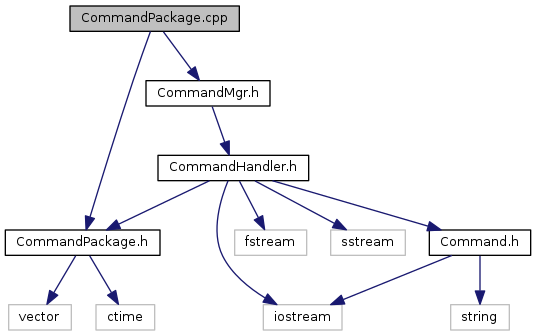
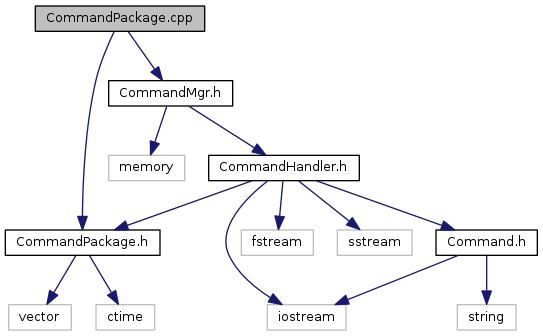
Deploy TiBxq/otus_cpp_h7 to github.com/TiBxq/otus_cpp_h7.git:gh-pages

diff --git a/_command_mgr_8h_source.html b/_command_mgr_8h_source.html
@@ -85,22 +85,21 @@ var searchBox = new SearchBox("searchBox", "search",false,'Search');
 <div class="title">CommandMgr.h</div>  </div>
 </div><!--header-->
 <div class="contents">
-<a href="_command_mgr_8h.html">Go to the documentation of this file.</a><div class="fragment"><div class="line"><a name="l00001"></a><span class="lineno">    1</span>&#160;<span class="preprocessor">#pragma once</span></div><div class="line"><a name="l00002"></a><span class="lineno">    2</span>&#160;</div><div class="line"><a name="l00003"></a><span class="lineno">    3</span>&#160;<span class="preprocessor">#include &quot;<a class="code" href="_command_handler_8h.html">CommandHandler.h</a>&quot;</span></div><div class="line"><a name="l00004"></a><span class="lineno">    4</span>&#160;</div><div class="line"><a name="l00005"></a><span class="lineno"><a class="line" href="class_command_mgr.html">    5</a></span>&#160;<span class="keyword">class </span><a class="code" href="class_command_mgr.html">CommandMgr</a></div><div class="line"><a name="l00006"></a><span class="lineno">    6</span>&#160;{</div><div class="line"><a name="l00007"></a><span class="lineno">    7</span>&#160;<span class="keyword">public</span>:</div><div class="line"><a name="l00008"></a><span class="lineno"><a class="line" href="class_command_mgr.html#a0d3968316177972d096d752e8607b68b">    8</a></span>&#160;    <a class="code" href="class_command_mgr.html#a0d3968316177972d096d752e8607b68b">CommandMgr</a>(<span class="keywordtype">int</span> n) : m_staticPackageSize(n), m_pkg(nullptr)</div><div class="line"><a name="l00009"></a><span class="lineno">    9</span>&#160;    {}</div><div class="line"><a name="l00010"></a><span class="lineno">   10</span>&#160;</div><div class="line"><a name="l00011"></a><span class="lineno"><a class="line" href="class_command_mgr.html#afa61ad0a2dd4adf633434ed088412cec">   11</a></span>&#160;    <span class="keywordtype">void</span> <a class="code" href="class_command_mgr.html#afa61ad0a2dd4adf633434ed088412cec">Add</a>(<a class="code" href="class_command_base.html">CommandBase</a>* cmd)</div><div class="line"><a name="l00012"></a><span class="lineno">   12</span>&#160;    {</div><div class="line"><a name="l00013"></a><span class="lineno">   13</span>&#160;        <span class="keywordflow">if</span> (!m_pkg)</div><div class="line"><a name="l00014"></a><span class="lineno">   14</span>&#160;        {</div><div class="line"><a name="l00015"></a><span class="lineno">   15</span>&#160;            m_pkg = <span class="keyword">new</span> <a class="code" href="class_static_command_package.html">StaticCommandPackage</a>(<span class="keyword">this</span>, m_staticPackageSize);</div><div class="line"><a name="l00016"></a><span class="lineno">   16</span>&#160;        }</div><div class="line"><a name="l00017"></a><span class="lineno">   17</span>&#160;        m_pkg-&gt;<a class="code" href="class_command_package.html#ad58f755e0343cdbaf34a72473a131f0f">Add</a>(cmd);</div><div class="line"><a name="l00018"></a><span class="lineno">   18</span>&#160;    }</div><div class="line"><a name="l00019"></a><span class="lineno">   19</span>&#160;</div><div class="line"><a name="l00020"></a><span class="lineno"><a class="line" href="class_command_mgr.html#acfed27d80d3f9650343cc9b7db2020c9">   20</a></span>&#160;    <span class="keywordtype">void</span> <a class="code" href="class_command_mgr.html#acfed27d80d3f9650343cc9b7db2020c9">OpenBlock</a>()</div><div class="line"><a name="l00021"></a><span class="lineno">   21</span>&#160;    {</div><div class="line"><a name="l00022"></a><span class="lineno">   22</span>&#160;        <span class="keywordflow">if</span>(m_pkg)</div><div class="line"><a name="l00023"></a><span class="lineno">   23</span>&#160;        {</div><div class="line"><a name="l00024"></a><span class="lineno">   24</span>&#160;            <span class="keywordflow">if</span> (m_pkg-&gt;<a class="code" href="class_command_package.html#a93fc18bbc9aa1c30516772ca13039a47">GetType</a>() == <a class="code" href="class_command_package.html#acf0736b6fc6ddd41a4d281941f53b4afa84a8921b25f505d0d2077aeb5db4bc16">CommandPackage::Type::Static</a>)</div><div class="line"><a name="l00025"></a><span class="lineno">   25</span>&#160;            {</div><div class="line"><a name="l00026"></a><span class="lineno">   26</span>&#160;                <a class="code" href="class_command_mgr.html#ade2efd944c6a552cbf28fb2979d6a89a">OnCompleted</a>();</div><div class="line"><a name="l00027"></a><span class="lineno">   27</span>&#160;            }</div><div class="line"><a name="l00028"></a><span class="lineno">   28</span>&#160;            <span class="keywordflow">else</span> <span class="keywordflow">if</span> (m_pkg-&gt;<a class="code" href="class_command_package.html#a93fc18bbc9aa1c30516772ca13039a47">GetType</a>() == <a class="code" href="class_command_package.html#acf0736b6fc6ddd41a4d281941f53b4afa971fd8cc345d8bd9f92e9f7d88fdf20c">CommandPackage::Type::Dynamic</a>)</div><div class="line"><a name="l00029"></a><span class="lineno">   29</span>&#160;            {</div><div class="line"><a name="l00030"></a><span class="lineno">   30</span>&#160;                <span class="keyword">static_cast&lt;</span><a class="code" href="class_dynamic_command_package.html">DynamicCommandPackage</a>*<span class="keyword">&gt;</span>(m_pkg)-&gt;IncCounter();</div><div class="line"><a name="l00031"></a><span class="lineno">   31</span>&#160;            }</div><div class="line"><a name="l00032"></a><span class="lineno">   32</span>&#160;        }</div><div class="line"><a name="l00033"></a><span class="lineno">   33</span>&#160;</div><div class="line"><a name="l00034"></a><span class="lineno">   34</span>&#160;        <span class="keywordflow">if</span>(!m_pkg)</div><div class="line"><a name="l00035"></a><span class="lineno">   35</span>&#160;        {</div><div class="line"><a name="l00036"></a><span class="lineno">   36</span>&#160;            m_pkg = <span class="keyword">new</span> <a class="code" href="class_dynamic_command_package.html">DynamicCommandPackage</a>(<span class="keyword">this</span>);</div><div class="line"><a name="l00037"></a><span class="lineno">   37</span>&#160;        }</div><div class="line"><a name="l00038"></a><span class="lineno">   38</span>&#160;    }</div><div class="line"><a name="l00039"></a><span class="lineno">   39</span>&#160;</div><div class="line"><a name="l00040"></a><span class="lineno"><a class="line" href="class_command_mgr.html#a4dc8e0869302d39b38802d40177ffdea">   40</a></span>&#160;    <span class="keywordtype">void</span> <a class="code" href="class_command_mgr.html#a4dc8e0869302d39b38802d40177ffdea">CloseBlock</a>()</div><div class="line"><a name="l00041"></a><span class="lineno">   41</span>&#160;    {</div><div class="line"><a name="l00042"></a><span class="lineno">   42</span>&#160;        <span class="keywordflow">if</span> (m_pkg)</div><div class="line"><a name="l00043"></a><span class="lineno">   43</span>&#160;        {</div><div class="line"><a name="l00044"></a><span class="lineno">   44</span>&#160;            <span class="keywordflow">if</span> (m_pkg-&gt;<a class="code" href="class_command_package.html#a93fc18bbc9aa1c30516772ca13039a47">GetType</a>() == <a class="code" href="class_command_package.html#acf0736b6fc6ddd41a4d281941f53b4afa971fd8cc345d8bd9f92e9f7d88fdf20c">CommandPackage::Type::Dynamic</a>)</div><div class="line"><a name="l00045"></a><span class="lineno">   45</span>&#160;            {</div><div class="line"><a name="l00046"></a><span class="lineno">   46</span>&#160;                <span class="keyword">static_cast&lt;</span><a class="code" href="class_dynamic_command_package.html">DynamicCommandPackage</a>*<span class="keyword">&gt;</span>(m_pkg)-&gt;DecCounter();</div><div class="line"><a name="l00047"></a><span class="lineno">   47</span>&#160;            }</div><div class="line"><a name="l00048"></a><span class="lineno">   48</span>&#160;        }</div><div class="line"><a name="l00049"></a><span class="lineno">   49</span>&#160;    }</div><div class="line"><a name="l00050"></a><span class="lineno">   50</span>&#160;</div><div class="line"><a name="l00051"></a><span class="lineno"><a class="line" href="class_command_mgr.html#ade2efd944c6a552cbf28fb2979d6a89a">   51</a></span>&#160;    <span class="keywordtype">void</span> <a class="code" href="class_command_mgr.html#ade2efd944c6a552cbf28fb2979d6a89a">OnCompleted</a>()</div><div class="line"><a name="l00052"></a><span class="lineno">   52</span>&#160;    { </div><div class="line"><a name="l00053"></a><span class="lineno">   53</span>&#160;        <span class="keywordflow">if</span> (m_pkg)</div><div class="line"><a name="l00054"></a><span class="lineno">   54</span>&#160;        {</div><div class="line"><a name="l00055"></a><span class="lineno">   55</span>&#160;            <span class="keywordflow">for</span> (<a class="code" href="class_command_handler.html">CommandHandler</a>* handler : m_handlers)</div><div class="line"><a name="l00056"></a><span class="lineno">   56</span>&#160;            {</div><div class="line"><a name="l00057"></a><span class="lineno">   57</span>&#160;                handler-&gt;Handle(m_pkg);</div><div class="line"><a name="l00058"></a><span class="lineno">   58</span>&#160;            }</div><div class="line"><a name="l00059"></a><span class="lineno">   59</span>&#160;</div><div class="line"><a name="l00060"></a><span class="lineno">   60</span>&#160;            <span class="keyword">delete</span> m_pkg;</div><div class="line"><a name="l00061"></a><span class="lineno">   61</span>&#160;            m_pkg = <span class="keyword">nullptr</span>;</div><div class="line"><a name="l00062"></a><span class="lineno">   62</span>&#160;        }</div><div class="line"><a name="l00063"></a><span class="lineno">   63</span>&#160;    }</div><div class="line"><a name="l00064"></a><span class="lineno">   64</span>&#160;</div><div class="line"><a name="l00065"></a><span class="lineno"><a class="line" href="class_command_mgr.html#a6982154b188980737919c3fea0f14654">   65</a></span>&#160;    <span class="keywordtype">void</span> <a class="code" href="class_command_mgr.html#a6982154b188980737919c3fea0f14654">AddHandler</a>(<a class="code" href="class_command_handler.html">CommandHandler</a>* handler)</div><div class="line"><a name="l00066"></a><span class="lineno">   66</span>&#160;    {</div><div class="line"><a name="l00067"></a><span class="lineno">   67</span>&#160;        m_handlers.emplace_back(handler);</div><div class="line"><a name="l00068"></a><span class="lineno">   68</span>&#160;    }</div><div class="line"><a name="l00069"></a><span class="lineno">   69</span>&#160;</div><div class="line"><a name="l00070"></a><span class="lineno">   70</span>&#160;    <span class="comment">//dtor</span></div><div class="line"><a name="l00071"></a><span class="lineno">   71</span>&#160;</div><div class="line"><a name="l00072"></a><span class="lineno">   72</span>&#160;<span class="keyword">private</span>:</div><div class="line"><a name="l00073"></a><span class="lineno">   73</span>&#160;    std::vector&lt;CommandBase*&gt; m_cmdList;</div><div class="line"><a name="l00074"></a><span class="lineno">   74</span>&#160;    std::vector&lt;CommandHandler*&gt; m_handlers;</div><div class="line"><a name="l00075"></a><span class="lineno">   75</span>&#160;    <span class="keywordtype">int</span> m_staticPackageSize;</div><div class="line"><a name="l00076"></a><span class="lineno">   76</span>&#160;</div><div class="line"><a name="l00077"></a><span class="lineno">   77</span>&#160;    <a class="code" href="class_command_package.html">CommandPackage</a>* m_pkg;</div><div class="line"><a name="l00078"></a><span class="lineno">   78</span>&#160;};</div><div class="ttc" id="class_command_mgr_html_a6982154b188980737919c3fea0f14654"><div class="ttname"><a href="class_command_mgr.html#a6982154b188980737919c3fea0f14654">CommandMgr::AddHandler</a></div><div class="ttdeci">void AddHandler(CommandHandler *handler)</div><div class="ttdef"><b>Definition:</b> CommandMgr.h:65</div></div>
-<div class="ttc" id="class_dynamic_command_package_html"><div class="ttname"><a href="class_dynamic_command_package.html">DynamicCommandPackage</a></div><div class="ttdef"><b>Definition:</b> CommandPackage.h:54</div></div>
+<a href="_command_mgr_8h.html">Go to the documentation of this file.</a><div class="fragment"><div class="line"><a name="l00001"></a><span class="lineno">    1</span>&#160;<span class="preprocessor">#pragma once</span></div><div class="line"><a name="l00002"></a><span class="lineno">    2</span>&#160;</div><div class="line"><a name="l00003"></a><span class="lineno">    3</span>&#160;<span class="preprocessor">#include &lt;memory&gt;</span></div><div class="line"><a name="l00004"></a><span class="lineno">    4</span>&#160;</div><div class="line"><a name="l00005"></a><span class="lineno">    5</span>&#160;<span class="preprocessor">#include &quot;<a class="code" href="_command_handler_8h.html">CommandHandler.h</a>&quot;</span></div><div class="line"><a name="l00006"></a><span class="lineno">    6</span>&#160;</div><div class="line"><a name="l00007"></a><span class="lineno"><a class="line" href="class_command_mgr.html">    7</a></span>&#160;<span class="keyword">class </span><a class="code" href="class_command_mgr.html">CommandMgr</a></div><div class="line"><a name="l00008"></a><span class="lineno">    8</span>&#160;{</div><div class="line"><a name="l00009"></a><span class="lineno">    9</span>&#160;<span class="keyword">public</span>:</div><div class="line"><a name="l00010"></a><span class="lineno"><a class="line" href="class_command_mgr.html#a0d3968316177972d096d752e8607b68b">   10</a></span>&#160;    <a class="code" href="class_command_mgr.html#a0d3968316177972d096d752e8607b68b">CommandMgr</a>(<span class="keywordtype">int</span> n) : m_staticPackageSize(n), m_pkg(nullptr)</div><div class="line"><a name="l00011"></a><span class="lineno">   11</span>&#160;    {}</div><div class="line"><a name="l00012"></a><span class="lineno">   12</span>&#160;</div><div class="line"><a name="l00013"></a><span class="lineno"><a class="line" href="class_command_mgr.html#afa61ad0a2dd4adf633434ed088412cec">   13</a></span>&#160;    <span class="keywordtype">void</span> <a class="code" href="class_command_mgr.html#afa61ad0a2dd4adf633434ed088412cec">Add</a>(<a class="code" href="class_command_base.html">CommandBase</a>* cmd)</div><div class="line"><a name="l00014"></a><span class="lineno">   14</span>&#160;    {</div><div class="line"><a name="l00015"></a><span class="lineno">   15</span>&#160;        <span class="keywordflow">if</span> (!m_pkg)</div><div class="line"><a name="l00016"></a><span class="lineno">   16</span>&#160;        {</div><div class="line"><a name="l00017"></a><span class="lineno">   17</span>&#160;            m_pkg = <span class="keyword">new</span> <a class="code" href="class_static_command_package.html">StaticCommandPackage</a>(<span class="keyword">this</span>, m_staticPackageSize);</div><div class="line"><a name="l00018"></a><span class="lineno">   18</span>&#160;        }</div><div class="line"><a name="l00019"></a><span class="lineno">   19</span>&#160;        m_pkg-&gt;<a class="code" href="class_command_package.html#ad58f755e0343cdbaf34a72473a131f0f">Add</a>(cmd);</div><div class="line"><a name="l00020"></a><span class="lineno">   20</span>&#160;    }</div><div class="line"><a name="l00021"></a><span class="lineno">   21</span>&#160;</div><div class="line"><a name="l00022"></a><span class="lineno"><a class="line" href="class_command_mgr.html#acfed27d80d3f9650343cc9b7db2020c9">   22</a></span>&#160;    <span class="keywordtype">void</span> <a class="code" href="class_command_mgr.html#acfed27d80d3f9650343cc9b7db2020c9">OpenBlock</a>()</div><div class="line"><a name="l00023"></a><span class="lineno">   23</span>&#160;    {</div><div class="line"><a name="l00024"></a><span class="lineno">   24</span>&#160;        <span class="keywordflow">if</span>(m_pkg)</div><div class="line"><a name="l00025"></a><span class="lineno">   25</span>&#160;        {</div><div class="line"><a name="l00026"></a><span class="lineno">   26</span>&#160;            <span class="keywordflow">if</span> (m_pkg-&gt;<a class="code" href="class_command_package.html#a93fc18bbc9aa1c30516772ca13039a47">GetType</a>() == <a class="code" href="class_command_package.html#acf0736b6fc6ddd41a4d281941f53b4afa84a8921b25f505d0d2077aeb5db4bc16">CommandPackage::Type::Static</a>)</div><div class="line"><a name="l00027"></a><span class="lineno">   27</span>&#160;            {</div><div class="line"><a name="l00028"></a><span class="lineno">   28</span>&#160;                <a class="code" href="class_command_mgr.html#ade2efd944c6a552cbf28fb2979d6a89a">OnCompleted</a>();</div><div class="line"><a name="l00029"></a><span class="lineno">   29</span>&#160;            }</div><div class="line"><a name="l00030"></a><span class="lineno">   30</span>&#160;            <span class="keywordflow">else</span> <span class="keywordflow">if</span> (m_pkg-&gt;<a class="code" href="class_command_package.html#a93fc18bbc9aa1c30516772ca13039a47">GetType</a>() == <a class="code" href="class_command_package.html#acf0736b6fc6ddd41a4d281941f53b4afa971fd8cc345d8bd9f92e9f7d88fdf20c">CommandPackage::Type::Dynamic</a>)</div><div class="line"><a name="l00031"></a><span class="lineno">   31</span>&#160;            {</div><div class="line"><a name="l00032"></a><span class="lineno">   32</span>&#160;                <span class="keyword">static_cast&lt;</span><a class="code" href="class_dynamic_command_package.html">DynamicCommandPackage</a>*<span class="keyword">&gt;</span>(m_pkg)-&gt;IncCounter();</div><div class="line"><a name="l00033"></a><span class="lineno">   33</span>&#160;            }</div><div class="line"><a name="l00034"></a><span class="lineno">   34</span>&#160;        }</div><div class="line"><a name="l00035"></a><span class="lineno">   35</span>&#160;</div><div class="line"><a name="l00036"></a><span class="lineno">   36</span>&#160;        <span class="keywordflow">if</span>(!m_pkg)</div><div class="line"><a name="l00037"></a><span class="lineno">   37</span>&#160;        {</div><div class="line"><a name="l00038"></a><span class="lineno">   38</span>&#160;            m_pkg = <span class="keyword">new</span> <a class="code" href="class_dynamic_command_package.html">DynamicCommandPackage</a>(<span class="keyword">this</span>);</div><div class="line"><a name="l00039"></a><span class="lineno">   39</span>&#160;        }</div><div class="line"><a name="l00040"></a><span class="lineno">   40</span>&#160;    }</div><div class="line"><a name="l00041"></a><span class="lineno">   41</span>&#160;</div><div class="line"><a name="l00042"></a><span class="lineno"><a class="line" href="class_command_mgr.html#a4dc8e0869302d39b38802d40177ffdea">   42</a></span>&#160;    <span class="keywordtype">void</span> <a class="code" href="class_command_mgr.html#a4dc8e0869302d39b38802d40177ffdea">CloseBlock</a>()</div><div class="line"><a name="l00043"></a><span class="lineno">   43</span>&#160;    {</div><div class="line"><a name="l00044"></a><span class="lineno">   44</span>&#160;        <span class="keywordflow">if</span> (m_pkg)</div><div class="line"><a name="l00045"></a><span class="lineno">   45</span>&#160;        {</div><div class="line"><a name="l00046"></a><span class="lineno">   46</span>&#160;            <span class="keywordflow">if</span> (m_pkg-&gt;<a class="code" href="class_command_package.html#a93fc18bbc9aa1c30516772ca13039a47">GetType</a>() == <a class="code" href="class_command_package.html#acf0736b6fc6ddd41a4d281941f53b4afa971fd8cc345d8bd9f92e9f7d88fdf20c">CommandPackage::Type::Dynamic</a>)</div><div class="line"><a name="l00047"></a><span class="lineno">   47</span>&#160;            {</div><div class="line"><a name="l00048"></a><span class="lineno">   48</span>&#160;                <span class="keyword">static_cast&lt;</span><a class="code" href="class_dynamic_command_package.html">DynamicCommandPackage</a>*<span class="keyword">&gt;</span>(m_pkg)-&gt;DecCounter();</div><div class="line"><a name="l00049"></a><span class="lineno">   49</span>&#160;            }</div><div class="line"><a name="l00050"></a><span class="lineno">   50</span>&#160;        }</div><div class="line"><a name="l00051"></a><span class="lineno">   51</span>&#160;    }</div><div class="line"><a name="l00052"></a><span class="lineno">   52</span>&#160;</div><div class="line"><a name="l00053"></a><span class="lineno"><a class="line" href="class_command_mgr.html#ade2efd944c6a552cbf28fb2979d6a89a">   53</a></span>&#160;    <span class="keywordtype">void</span> <a class="code" href="class_command_mgr.html#ade2efd944c6a552cbf28fb2979d6a89a">OnCompleted</a>()</div><div class="line"><a name="l00054"></a><span class="lineno">   54</span>&#160;    { </div><div class="line"><a name="l00055"></a><span class="lineno">   55</span>&#160;        <span class="keywordflow">if</span> (m_pkg)</div><div class="line"><a name="l00056"></a><span class="lineno">   56</span>&#160;        {</div><div class="line"><a name="l00057"></a><span class="lineno">   57</span>&#160;            <span class="keywordflow">for</span> (<span class="keyword">auto</span>&amp; handler : m_handlers)</div><div class="line"><a name="l00058"></a><span class="lineno">   58</span>&#160;            {</div><div class="line"><a name="l00059"></a><span class="lineno">   59</span>&#160;                handler-&gt;Handle(m_pkg);</div><div class="line"><a name="l00060"></a><span class="lineno">   60</span>&#160;            }</div><div class="line"><a name="l00061"></a><span class="lineno">   61</span>&#160;</div><div class="line"><a name="l00062"></a><span class="lineno">   62</span>&#160;            <span class="keyword">delete</span> m_pkg;</div><div class="line"><a name="l00063"></a><span class="lineno">   63</span>&#160;            m_pkg = <span class="keyword">nullptr</span>;</div><div class="line"><a name="l00064"></a><span class="lineno">   64</span>&#160;        }</div><div class="line"><a name="l00065"></a><span class="lineno">   65</span>&#160;    }</div><div class="line"><a name="l00066"></a><span class="lineno">   66</span>&#160;</div><div class="line"><a name="l00067"></a><span class="lineno"><a class="line" href="class_command_mgr.html#a098c38f960b3e9fbbb26017c10444de7">   67</a></span>&#160;    <span class="keywordtype">void</span> <a class="code" href="class_command_mgr.html#a098c38f960b3e9fbbb26017c10444de7">AddHandler</a>(std::unique_ptr&lt;CommandHandler&gt;&amp;&amp; handler)</div><div class="line"><a name="l00068"></a><span class="lineno">   68</span>&#160;    {</div><div class="line"><a name="l00069"></a><span class="lineno">   69</span>&#160;        m_handlers.emplace_back(std::move(handler));</div><div class="line"><a name="l00070"></a><span class="lineno">   70</span>&#160;    }</div><div class="line"><a name="l00071"></a><span class="lineno">   71</span>&#160;</div><div class="line"><a name="l00072"></a><span class="lineno">   72</span>&#160;    <span class="comment">//dtor</span></div><div class="line"><a name="l00073"></a><span class="lineno">   73</span>&#160;</div><div class="line"><a name="l00074"></a><span class="lineno">   74</span>&#160;<span class="keyword">private</span>:</div><div class="line"><a name="l00075"></a><span class="lineno">   75</span>&#160;    std::vector&lt;CommandBase*&gt; m_cmdList;</div><div class="line"><a name="l00076"></a><span class="lineno">   76</span>&#160;    std::vector&lt;std::unique_ptr&lt;CommandHandler&gt;&gt; m_handlers;</div><div class="line"><a name="l00077"></a><span class="lineno">   77</span>&#160;    <span class="keywordtype">int</span> m_staticPackageSize;</div><div class="line"><a name="l00078"></a><span class="lineno">   78</span>&#160;</div><div class="line"><a name="l00079"></a><span class="lineno">   79</span>&#160;    <a class="code" href="class_command_package.html">CommandPackage</a>* m_pkg;</div><div class="line"><a name="l00080"></a><span class="lineno">   80</span>&#160;};</div><div class="ttc" id="class_dynamic_command_package_html"><div class="ttname"><a href="class_dynamic_command_package.html">DynamicCommandPackage</a></div><div class="ttdef"><b>Definition:</b> CommandPackage.h:54</div></div>
 <div class="ttc" id="class_command_package_html"><div class="ttname"><a href="class_command_package.html">CommandPackage</a></div><div class="ttdef"><b>Definition:</b> CommandPackage.h:9</div></div>
-<div class="ttc" id="class_command_mgr_html_afa61ad0a2dd4adf633434ed088412cec"><div class="ttname"><a href="class_command_mgr.html#afa61ad0a2dd4adf633434ed088412cec">CommandMgr::Add</a></div><div class="ttdeci">void Add(CommandBase *cmd)</div><div class="ttdef"><b>Definition:</b> CommandMgr.h:11</div></div>
-<div class="ttc" id="class_command_mgr_html_a4dc8e0869302d39b38802d40177ffdea"><div class="ttname"><a href="class_command_mgr.html#a4dc8e0869302d39b38802d40177ffdea">CommandMgr::CloseBlock</a></div><div class="ttdeci">void CloseBlock()</div><div class="ttdef"><b>Definition:</b> CommandMgr.h:40</div></div>
-<div class="ttc" id="class_command_mgr_html_a0d3968316177972d096d752e8607b68b"><div class="ttname"><a href="class_command_mgr.html#a0d3968316177972d096d752e8607b68b">CommandMgr::CommandMgr</a></div><div class="ttdeci">CommandMgr(int n)</div><div class="ttdef"><b>Definition:</b> CommandMgr.h:8</div></div>
+<div class="ttc" id="class_command_mgr_html_afa61ad0a2dd4adf633434ed088412cec"><div class="ttname"><a href="class_command_mgr.html#afa61ad0a2dd4adf633434ed088412cec">CommandMgr::Add</a></div><div class="ttdeci">void Add(CommandBase *cmd)</div><div class="ttdef"><b>Definition:</b> CommandMgr.h:13</div></div>
+<div class="ttc" id="class_command_mgr_html_a4dc8e0869302d39b38802d40177ffdea"><div class="ttname"><a href="class_command_mgr.html#a4dc8e0869302d39b38802d40177ffdea">CommandMgr::CloseBlock</a></div><div class="ttdeci">void CloseBlock()</div><div class="ttdef"><b>Definition:</b> CommandMgr.h:42</div></div>
+<div class="ttc" id="class_command_mgr_html_a0d3968316177972d096d752e8607b68b"><div class="ttname"><a href="class_command_mgr.html#a0d3968316177972d096d752e8607b68b">CommandMgr::CommandMgr</a></div><div class="ttdeci">CommandMgr(int n)</div><div class="ttdef"><b>Definition:</b> CommandMgr.h:10</div></div>
 <div class="ttc" id="class_command_package_html_acf0736b6fc6ddd41a4d281941f53b4afa971fd8cc345d8bd9f92e9f7d88fdf20c"><div class="ttname"><a href="class_command_package.html#acf0736b6fc6ddd41a4d281941f53b4afa971fd8cc345d8bd9f92e9f7d88fdf20c">CommandPackage::Type::Dynamic</a></div></div>
+<div class="ttc" id="class_command_mgr_html_a098c38f960b3e9fbbb26017c10444de7"><div class="ttname"><a href="class_command_mgr.html#a098c38f960b3e9fbbb26017c10444de7">CommandMgr::AddHandler</a></div><div class="ttdeci">void AddHandler(std::unique_ptr&lt; CommandHandler &gt; &amp;&amp;handler)</div><div class="ttdef"><b>Definition:</b> CommandMgr.h:67</div></div>
 <div class="ttc" id="class_command_package_html_acf0736b6fc6ddd41a4d281941f53b4afa84a8921b25f505d0d2077aeb5db4bc16"><div class="ttname"><a href="class_command_package.html#acf0736b6fc6ddd41a4d281941f53b4afa84a8921b25f505d0d2077aeb5db4bc16">CommandPackage::Type::Static</a></div></div>
 <div class="ttc" id="class_command_package_html_ad58f755e0343cdbaf34a72473a131f0f"><div class="ttname"><a href="class_command_package.html#ad58f755e0343cdbaf34a72473a131f0f">CommandPackage::Add</a></div><div class="ttdeci">virtual void Add(CommandBase *cmd)</div><div class="ttdef"><b>Definition:</b> CommandPackage.h:17</div></div>
 <div class="ttc" id="class_command_base_html"><div class="ttname"><a href="class_command_base.html">CommandBase</a></div><div class="ttdef"><b>Definition:</b> Command.h:6</div></div>
-<div class="ttc" id="class_command_handler_html"><div class="ttname"><a href="class_command_handler.html">CommandHandler</a></div><div class="ttdef"><b>Definition:</b> CommandHandler.h:10</div></div>
-<div class="ttc" id="class_command_mgr_html"><div class="ttname"><a href="class_command_mgr.html">CommandMgr</a></div><div class="ttdef"><b>Definition:</b> CommandMgr.h:5</div></div>
+<div class="ttc" id="class_command_mgr_html"><div class="ttname"><a href="class_command_mgr.html">CommandMgr</a></div><div class="ttdef"><b>Definition:</b> CommandMgr.h:7</div></div>
 <div class="ttc" id="class_static_command_package_html"><div class="ttname"><a href="class_static_command_package.html">StaticCommandPackage</a></div><div class="ttdef"><b>Definition:</b> CommandPackage.h:40</div></div>
-<div class="ttc" id="class_command_mgr_html_acfed27d80d3f9650343cc9b7db2020c9"><div class="ttname"><a href="class_command_mgr.html#acfed27d80d3f9650343cc9b7db2020c9">CommandMgr::OpenBlock</a></div><div class="ttdeci">void OpenBlock()</div><div class="ttdef"><b>Definition:</b> CommandMgr.h:20</div></div>
+<div class="ttc" id="class_command_mgr_html_acfed27d80d3f9650343cc9b7db2020c9"><div class="ttname"><a href="class_command_mgr.html#acfed27d80d3f9650343cc9b7db2020c9">CommandMgr::OpenBlock</a></div><div class="ttdeci">void OpenBlock()</div><div class="ttdef"><b>Definition:</b> CommandMgr.h:22</div></div>
 <div class="ttc" id="_command_handler_8h_html"><div class="ttname"><a href="_command_handler_8h.html">CommandHandler.h</a></div></div>
-<div class="ttc" id="class_command_mgr_html_ade2efd944c6a552cbf28fb2979d6a89a"><div class="ttname"><a href="class_command_mgr.html#ade2efd944c6a552cbf28fb2979d6a89a">CommandMgr::OnCompleted</a></div><div class="ttdeci">void OnCompleted()</div><div class="ttdef"><b>Definition:</b> CommandMgr.h:51</div></div>
+<div class="ttc" id="class_command_mgr_html_ade2efd944c6a552cbf28fb2979d6a89a"><div class="ttname"><a href="class_command_mgr.html#ade2efd944c6a552cbf28fb2979d6a89a">CommandMgr::OnCompleted</a></div><div class="ttdeci">void OnCompleted()</div><div class="ttdef"><b>Definition:</b> CommandMgr.h:53</div></div>
 <div class="ttc" id="class_command_package_html_a93fc18bbc9aa1c30516772ca13039a47"><div class="ttname"><a href="class_command_package.html#a93fc18bbc9aa1c30516772ca13039a47">CommandPackage::GetType</a></div><div class="ttdeci">virtual Type GetType()=0</div></div>
 </div><!-- fragment --></div><!-- contents -->
 <!-- start footer part -->

diff --git a/class_command_mgr.html b/class_command_mgr.html
@@ -105,8 +105,8 @@ Public Member Functions</h2></td></tr>
 <tr class="separator:a4dc8e0869302d39b38802d40177ffdea"><td class="memSeparator" colspan="2">&#160;</td></tr>
 <tr class="memitem:ade2efd944c6a552cbf28fb2979d6a89a"><td class="memItemLeft" align="right" valign="top">void&#160;</td><td class="memItemRight" valign="bottom"><a class="el" href="class_command_mgr.html#ade2efd944c6a552cbf28fb2979d6a89a">OnCompleted</a> ()</td></tr>
 <tr class="separator:ade2efd944c6a552cbf28fb2979d6a89a"><td class="memSeparator" colspan="2">&#160;</td></tr>
-<tr class="memitem:a6982154b188980737919c3fea0f14654"><td class="memItemLeft" align="right" valign="top">void&#160;</td><td class="memItemRight" valign="bottom"><a class="el" href="class_command_mgr.html#a6982154b188980737919c3fea0f14654">AddHandler</a> (<a class="el" href="class_command_handler.html">CommandHandler</a> *handler)</td></tr>
-<tr class="separator:a6982154b188980737919c3fea0f14654"><td class="memSeparator" colspan="2">&#160;</td></tr>
+<tr class="memitem:a098c38f960b3e9fbbb26017c10444de7"><td class="memItemLeft" align="right" valign="top">void&#160;</td><td class="memItemRight" valign="bottom"><a class="el" href="class_command_mgr.html#a098c38f960b3e9fbbb26017c10444de7">AddHandler</a> (std::unique_ptr&lt; <a class="el" href="class_command_handler.html">CommandHandler</a> &gt; &amp;&amp;handler)</td></tr>
+<tr class="separator:a098c38f960b3e9fbbb26017c10444de7"><td class="memSeparator" colspan="2">&#160;</td></tr>
 </table>
 <h2 class="groupheader">Constructor &amp; Destructor Documentation</h2>
 <a class="anchor" id="a0d3968316177972d096d752e8607b68b"></a>
@@ -158,7 +158,7 @@ Public Member Functions</h2></td></tr>
 
 </div>
 </div>
-<a class="anchor" id="a6982154b188980737919c3fea0f14654"></a>
+<a class="anchor" id="a098c38f960b3e9fbbb26017c10444de7"></a>
 <div class="memitem">
 <div class="memproto">
 <table class="mlabels">
@@ -168,7 +168,7 @@ Public Member Functions</h2></td></tr>
         <tr>
           <td class="memname">void CommandMgr::AddHandler </td>
           <td>(</td>
-          <td class="paramtype"><a class="el" href="class_command_handler.html">CommandHandler</a> *&#160;</td>
+          <td class="paramtype">std::unique_ptr&lt; <a class="el" href="class_command_handler.html">CommandHandler</a> &gt; &amp;&amp;&#160;</td>
           <td class="paramname"><em>handler</em></td><td>)</td>
           <td></td>
         </tr>

diff --git a/_command_package_8h_source.html b/_command_package_8h_source.html
@@ -95,7 +95,7 @@ var searchBox = new SearchBox("searchBox", "search",false,'Search');
 <div class="ttc" id="class_command_package_html_ad58f755e0343cdbaf34a72473a131f0f"><div class="ttname"><a href="class_command_package.html#ad58f755e0343cdbaf34a72473a131f0f">CommandPackage::Add</a></div><div class="ttdeci">virtual void Add(CommandBase *cmd)</div><div class="ttdef"><b>Definition:</b> CommandPackage.h:17</div></div>
 <div class="ttc" id="class_command_package_html_a3432acc59038e7f41d9fcab09d3d6ac2"><div class="ttname"><a href="class_command_package.html#a3432acc59038e7f41d9fcab09d3d6ac2">CommandPackage::Execute</a></div><div class="ttdeci">virtual void Execute()</div><div class="ttdef"><b>Definition:</b> CommandPackage.h:26</div></div>
 <div class="ttc" id="class_command_base_html"><div class="ttname"><a href="class_command_base.html">CommandBase</a></div><div class="ttdef"><b>Definition:</b> Command.h:6</div></div>
-<div class="ttc" id="class_command_mgr_html"><div class="ttname"><a href="class_command_mgr.html">CommandMgr</a></div><div class="ttdef"><b>Definition:</b> CommandMgr.h:5</div></div>
+<div class="ttc" id="class_command_mgr_html"><div class="ttname"><a href="class_command_mgr.html">CommandMgr</a></div><div class="ttdef"><b>Definition:</b> CommandMgr.h:7</div></div>
 <div class="ttc" id="class_static_command_package_html_addf43efa85be145485067e165ca4e9a5"><div class="ttname"><a href="class_static_command_package.html#addf43efa85be145485067e165ca4e9a5">StaticCommandPackage::GetType</a></div><div class="ttdeci">Type GetType() override</div><div class="ttdef"><b>Definition:</b> CommandPackage.h:48</div></div>
 <div class="ttc" id="class_static_command_package_html"><div class="ttname"><a href="class_static_command_package.html">StaticCommandPackage</a></div><div class="ttdef"><b>Definition:</b> CommandPackage.h:40</div></div>
 <div class="ttc" id="class_command_package_html_a872ec95a2dfbbbd89b714c7f9b169b3b"><div class="ttname"><a href="class_command_package.html#a872ec95a2dfbbbd89b714c7f9b169b3b">CommandPackage::CommandPackage</a></div><div class="ttdeci">CommandPackage(CommandMgr *mgr)</div><div class="ttdef"><b>Definition:</b> CommandPackage.h:12</div></div>

diff --git a/class_command_mgr-members.html b/class_command_mgr-members.html
@@ -91,7 +91,7 @@ var searchBox = new SearchBox("searchBox", "search",false,'Search');
 <p>This is the complete list of members for <a class="el" href="class_command_mgr.html">CommandMgr</a>, including all inherited members.</p>
 <table class="directory">
   <tr class="even"><td class="entry"><a class="el" href="class_command_mgr.html#afa61ad0a2dd4adf633434ed088412cec">Add</a>(CommandBase *cmd)</td><td class="entry"><a class="el" href="class_command_mgr.html">CommandMgr</a></td><td class="entry"><span class="mlabel">inline</span></td></tr>
-  <tr><td class="entry"><a class="el" href="class_command_mgr.html#a6982154b188980737919c3fea0f14654">AddHandler</a>(CommandHandler *handler)</td><td class="entry"><a class="el" href="class_command_mgr.html">CommandMgr</a></td><td class="entry"><span class="mlabel">inline</span></td></tr>
+  <tr><td class="entry"><a class="el" href="class_command_mgr.html#a098c38f960b3e9fbbb26017c10444de7">AddHandler</a>(std::unique_ptr&lt; CommandHandler &gt; &amp;&amp;handler)</td><td class="entry"><a class="el" href="class_command_mgr.html">CommandMgr</a></td><td class="entry"><span class="mlabel">inline</span></td></tr>
   <tr class="even"><td class="entry"><a class="el" href="class_command_mgr.html#a4dc8e0869302d39b38802d40177ffdea">CloseBlock</a>()</td><td class="entry"><a class="el" href="class_command_mgr.html">CommandMgr</a></td><td class="entry"><span class="mlabel">inline</span></td></tr>
   <tr><td class="entry"><a class="el" href="class_command_mgr.html#a0d3968316177972d096d752e8607b68b">CommandMgr</a>(int n)</td><td class="entry"><a class="el" href="class_command_mgr.html">CommandMgr</a></td><td class="entry"><span class="mlabel">inline</span></td></tr>
   <tr class="even"><td class="entry"><a class="el" href="class_command_mgr.html#ade2efd944c6a552cbf28fb2979d6a89a">OnCompleted</a>()</td><td class="entry"><a class="el" href="class_command_mgr.html">CommandMgr</a></td><td class="entry"><span class="mlabel">inline</span></td></tr>

diff --git a/_command_mgr_8h.html b/_command_mgr_8h.html
@@ -87,15 +87,16 @@ var searchBox = new SearchBox("searchBox", "search",false,'Search');
 <div class="title">CommandMgr.h File Reference</div>  </div>
 </div><!--header-->
 <div class="contents">
-<div class="textblock"><code>#include &quot;<a class="el" href="_command_handler_8h_source.html">CommandHandler.h</a>&quot;</code><br />
+<div class="textblock"><code>#include &lt;memory&gt;</code><br />
+<code>#include &quot;<a class="el" href="_command_handler_8h_source.html">CommandHandler.h</a>&quot;</code><br />
 </div><div class="textblock"><div class="dynheader">
 Include dependency graph for CommandMgr.h:</div>
 <div class="dyncontent">
 <div class="center"><img src="_command_mgr_8h__incl.png" border="0" usemap="#_command_mgr_8h" alt=""/></div>
 <map name="_command_mgr_8h" id="_command_mgr_8h">
-<area shape="rect" id="node2" href="_command_handler_8h.html" title="CommandHandler.h" alt="" coords="81,80,231,107"/>
-<area shape="rect" id="node6" href="_command_package_8h.html" title="CommandPackage.h" alt="" coords="343,155,497,181"/>
-<area shape="rect" id="node9" href="_command_8h.html" title="Command.h" alt="" coords="217,155,319,181"/>
+<area shape="rect" id="node3" href="_command_handler_8h.html" title="CommandHandler.h" alt="" coords="105,80,256,107"/>
+<area shape="rect" id="node7" href="_command_package_8h.html" title="CommandPackage.h" alt="" coords="367,155,522,181"/>
+<area shape="rect" id="node10" href="_command_8h.html" title="Command.h" alt="" coords="242,155,343,181"/>
 </map>
 </div>
 </div><div class="textblock"><div class="dynheader">

diff --git a/bulk__test_8cpp.html b/bulk__test_8cpp.html
@@ -96,10 +96,10 @@ Include dependency graph for bulk_test.cpp:</div>
 <div class="dyncontent">
 <div class="center"><img src="bulk__test_8cpp__incl.png" border="0" usemap="#bulk__test_8cpp" alt=""/></div>
 <map name="bulk__test_8cpp" id="bulk__test_8cpp">
-<area shape="rect" id="node3" href="_command_mgr_8h.html" title="CommandMgr.h" alt="" coords="191,80,315,107"/>
-<area shape="rect" id="node8" href="_command_package_8h.html" title="CommandPackage.h" alt="" coords="393,229,548,256"/>
-<area shape="rect" id="node11" href="_command_8h.html" title="Command.h" alt="" coords="23,229,124,256"/>
-<area shape="rect" id="node4" href="_command_handler_8h.html" title="CommandHandler.h" alt="" coords="185,155,335,181"/>
+<area shape="rect" id="node3" href="_command_mgr_8h.html" title="CommandMgr.h" alt="" coords="241,80,365,107"/>
+<area shape="rect" id="node9" href="_command_package_8h.html" title="CommandPackage.h" alt="" coords="376,229,531,256"/>
+<area shape="rect" id="node12" href="_command_8h.html" title="Command.h" alt="" coords="251,229,352,256"/>
+<area shape="rect" id="node5" href="_command_handler_8h.html" title="CommandHandler.h" alt="" coords="114,155,265,181"/>
 </map>
 </div>
 </div><table class="memberdecls">

diff --git a/_command_package_8cpp.html b/_command_package_8cpp.html
@@ -93,9 +93,9 @@ Include dependency graph for CommandPackage.cpp:</div>
 <div class="center"><img src="_command_package_8cpp__incl.png" border="0" usemap="#_command_package_8cpp" alt=""/></div>
 <map name="_command_package_8cpp" id="_command_package_8cpp">
 <area shape="rect" id="node2" href="_command_package_8h.html" title="CommandPackage.h" alt="" coords="5,229,160,256"/>
-<area shape="rect" id="node5" href="_command_mgr_8h.html" title="CommandMgr.h" alt="" coords="146,80,270,107"/>
-<area shape="rect" id="node6" href="_command_handler_8h.html" title="CommandHandler.h" alt="" coords="158,155,309,181"/>
-<area shape="rect" id="node10" href="_command_8h.html" title="Command.h" alt="" coords="429,229,531,256"/>
+<area shape="rect" id="node5" href="_command_mgr_8h.html" title="CommandMgr.h" alt="" coords="109,80,233,107"/>
+<area shape="rect" id="node7" href="_command_handler_8h.html" title="CommandHandler.h" alt="" coords="209,155,359,181"/>
+<area shape="rect" id="node11" href="_command_8h.html" title="Command.h" alt="" coords="436,229,537,256"/>
 </map>
 </div>
 </div></div><!-- contents -->

diff --git a/bulk_8cpp.html b/bulk_8cpp.html
@@ -101,9 +101,9 @@ Include dependency graph for bulk.cpp:</div>
 <div class="center"><img src="bulk_8cpp__incl.png" border="0" usemap="#bulk_8cpp" alt=""/></div>
 <map name="bulk_8cpp" id="bulk_8cpp">
 <area shape="rect" id="node8" href="_command_mgr_8h.html" title="CommandMgr.h" alt="" coords="467,80,591,107"/>
-<area shape="rect" id="node9" href="_command_handler_8h.html" title="CommandHandler.h" alt="" coords="503,155,654,181"/>
-<area shape="rect" id="node12" href="_command_package_8h.html" title="CommandPackage.h" alt="" coords="237,229,392,256"/>
-<area shape="rect" id="node14" href="_command_8h.html" title="Command.h" alt="" coords="616,229,717,256"/>
+<area shape="rect" id="node10" href="_command_handler_8h.html" title="CommandHandler.h" alt="" coords="567,155,718,181"/>
+<area shape="rect" id="node13" href="_command_package_8h.html" title="CommandPackage.h" alt="" coords="237,229,392,256"/>
+<area shape="rect" id="node15" href="_command_8h.html" title="Command.h" alt="" coords="616,229,717,256"/>
 </map>
 </div>
 </div><table class="memberdecls">

diff --git a/search/all_0.js b/search/all_0.js
@@ -1,5 +1,5 @@
 var searchData=
 [
   ['add',['Add',['../class_command_mgr.html#afa61ad0a2dd4adf633434ed088412cec',1,'CommandMgr::Add()'],['../class_command_package.html#ad58f755e0343cdbaf34a72473a131f0f',1,'CommandPackage::Add()'],['../class_static_command_package.html#a2717dcf354843f9baf8db6068e5e846b',1,'StaticCommandPackage::Add()']]],
-  ['addhandler',['AddHandler',['../class_command_mgr.html#a6982154b188980737919c3fea0f14654',1,'CommandMgr']]]
+  ['addhandler',['AddHandler',['../class_command_mgr.html#a098c38f960b3e9fbbb26017c10444de7',1,'CommandMgr']]]
 ];

diff --git a/search/functions_0.js b/search/functions_0.js
@@ -1,5 +1,5 @@
 var searchData=
 [
   ['add',['Add',['../class_command_mgr.html#afa61ad0a2dd4adf633434ed088412cec',1,'CommandMgr::Add()'],['../class_command_package.html#ad58f755e0343cdbaf34a72473a131f0f',1,'CommandPackage::Add()'],['../class_static_command_package.html#a2717dcf354843f9baf8db6068e5e846b',1,'StaticCommandPackage::Add()']]],
-  ['addhandler',['AddHandler',['../class_command_mgr.html#a6982154b188980737919c3fea0f14654',1,'CommandMgr']]]
+  ['addhandler',['AddHandler',['../class_command_mgr.html#a098c38f960b3e9fbbb26017c10444de7',1,'CommandMgr']]]
 ];

diff --git a/functions_func.html b/functions_func.html
@@ -98,7 +98,7 @@ var searchBox = new SearchBox("searchBox", "search",false,'Search');
 , <a class="el" href="class_static_command_package.html#a2717dcf354843f9baf8db6068e5e846b">StaticCommandPackage</a>
 </li>
 <li>AddHandler()
-: <a class="el" href="class_command_mgr.html#a6982154b188980737919c3fea0f14654">CommandMgr</a>
+: <a class="el" href="class_command_mgr.html#a098c38f960b3e9fbbb26017c10444de7">CommandMgr</a>
 </li>
 <li>CloseBlock()
 : <a class="el" href="class_command_mgr.html#a4dc8e0869302d39b38802d40177ffdea">CommandMgr</a>

diff --git a/functions.html b/functions.html
@@ -116,7 +116,7 @@ var searchBox = new SearchBox("searchBox", "search",false,'Search');
 , <a class="el" href="class_static_command_package.html#a2717dcf354843f9baf8db6068e5e846b">StaticCommandPackage</a>
 </li>
 <li>AddHandler()
-: <a class="el" href="class_command_mgr.html#a6982154b188980737919c3fea0f14654">CommandMgr</a>
+: <a class="el" href="class_command_mgr.html#a098c38f960b3e9fbbb26017c10444de7">CommandMgr</a>
 </li>
 </ul>
 
